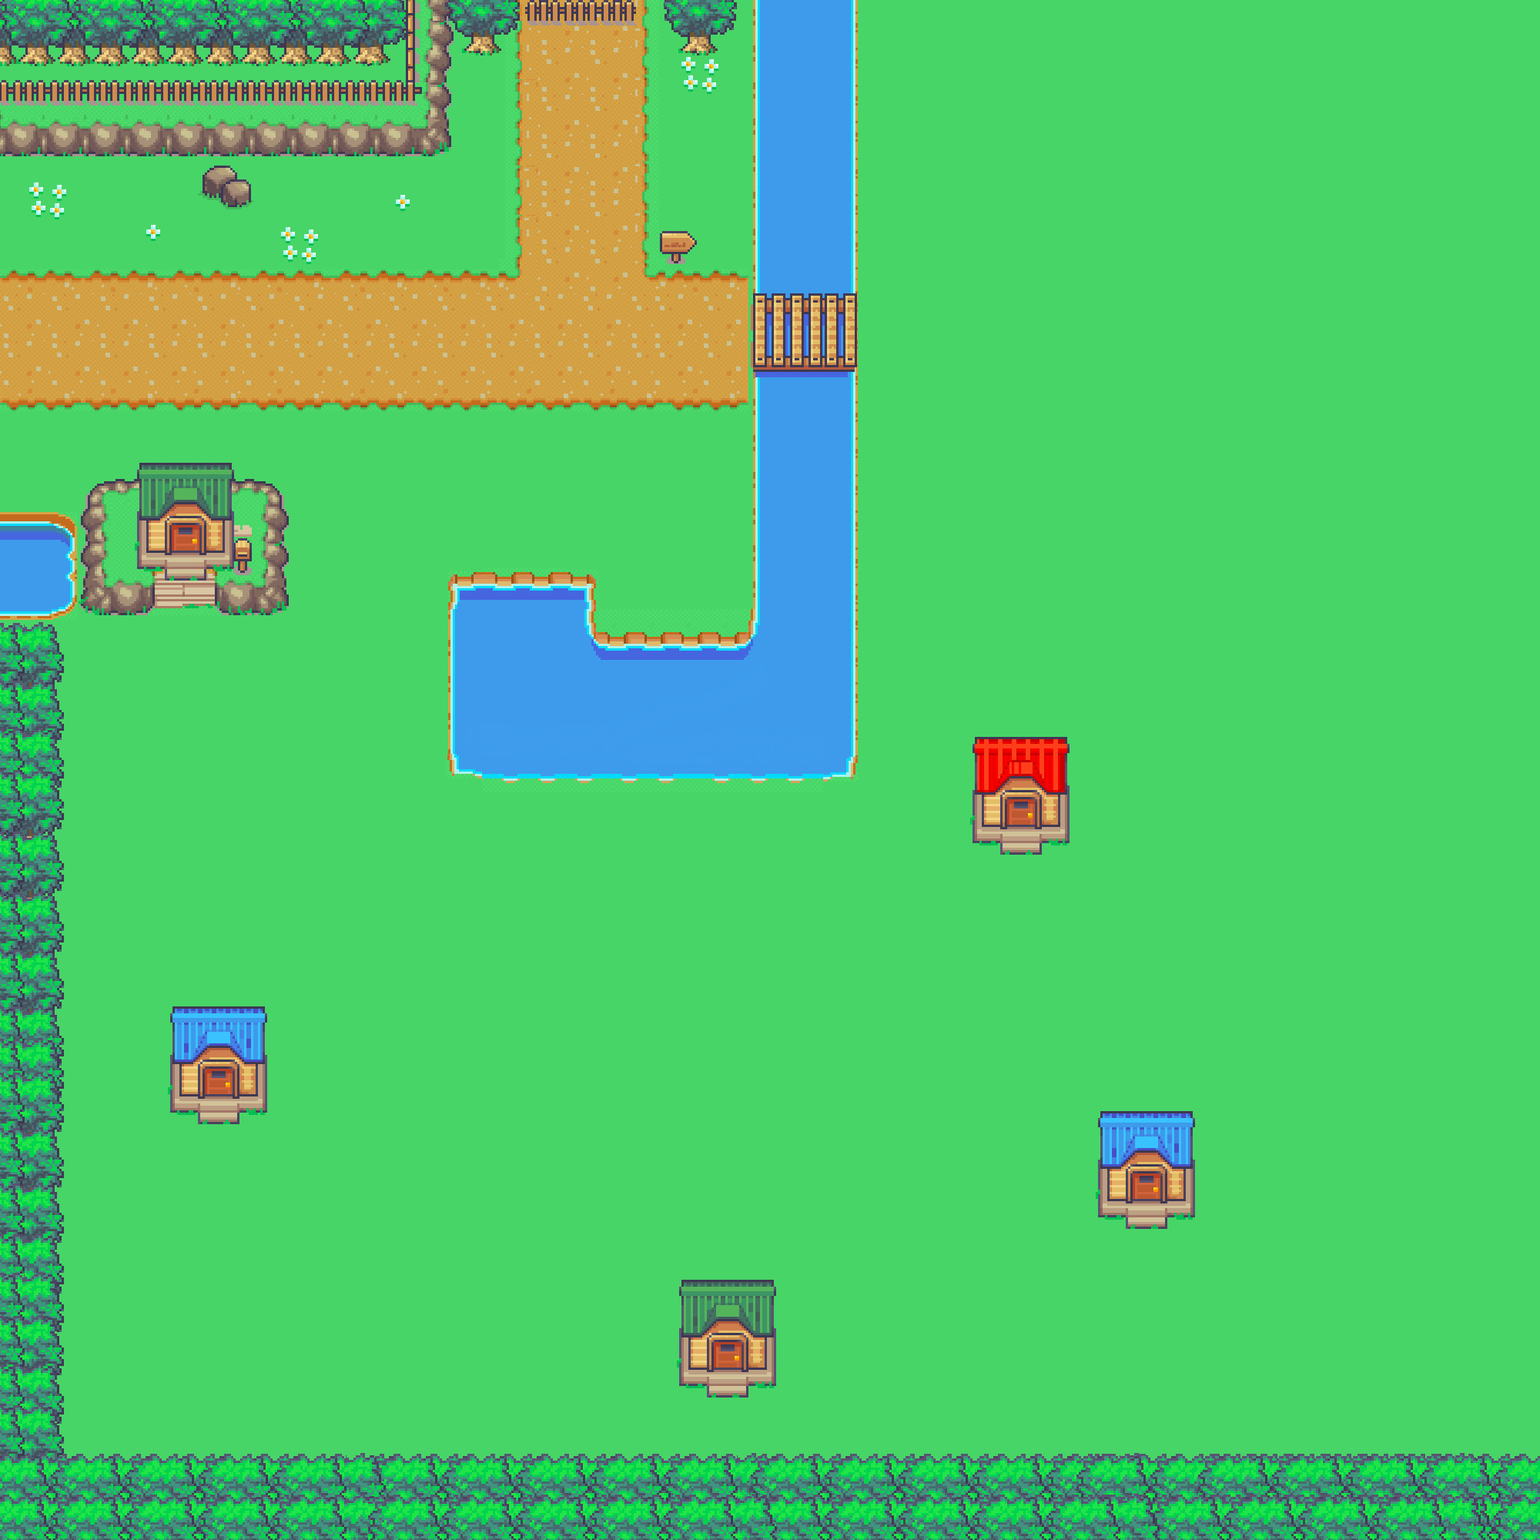
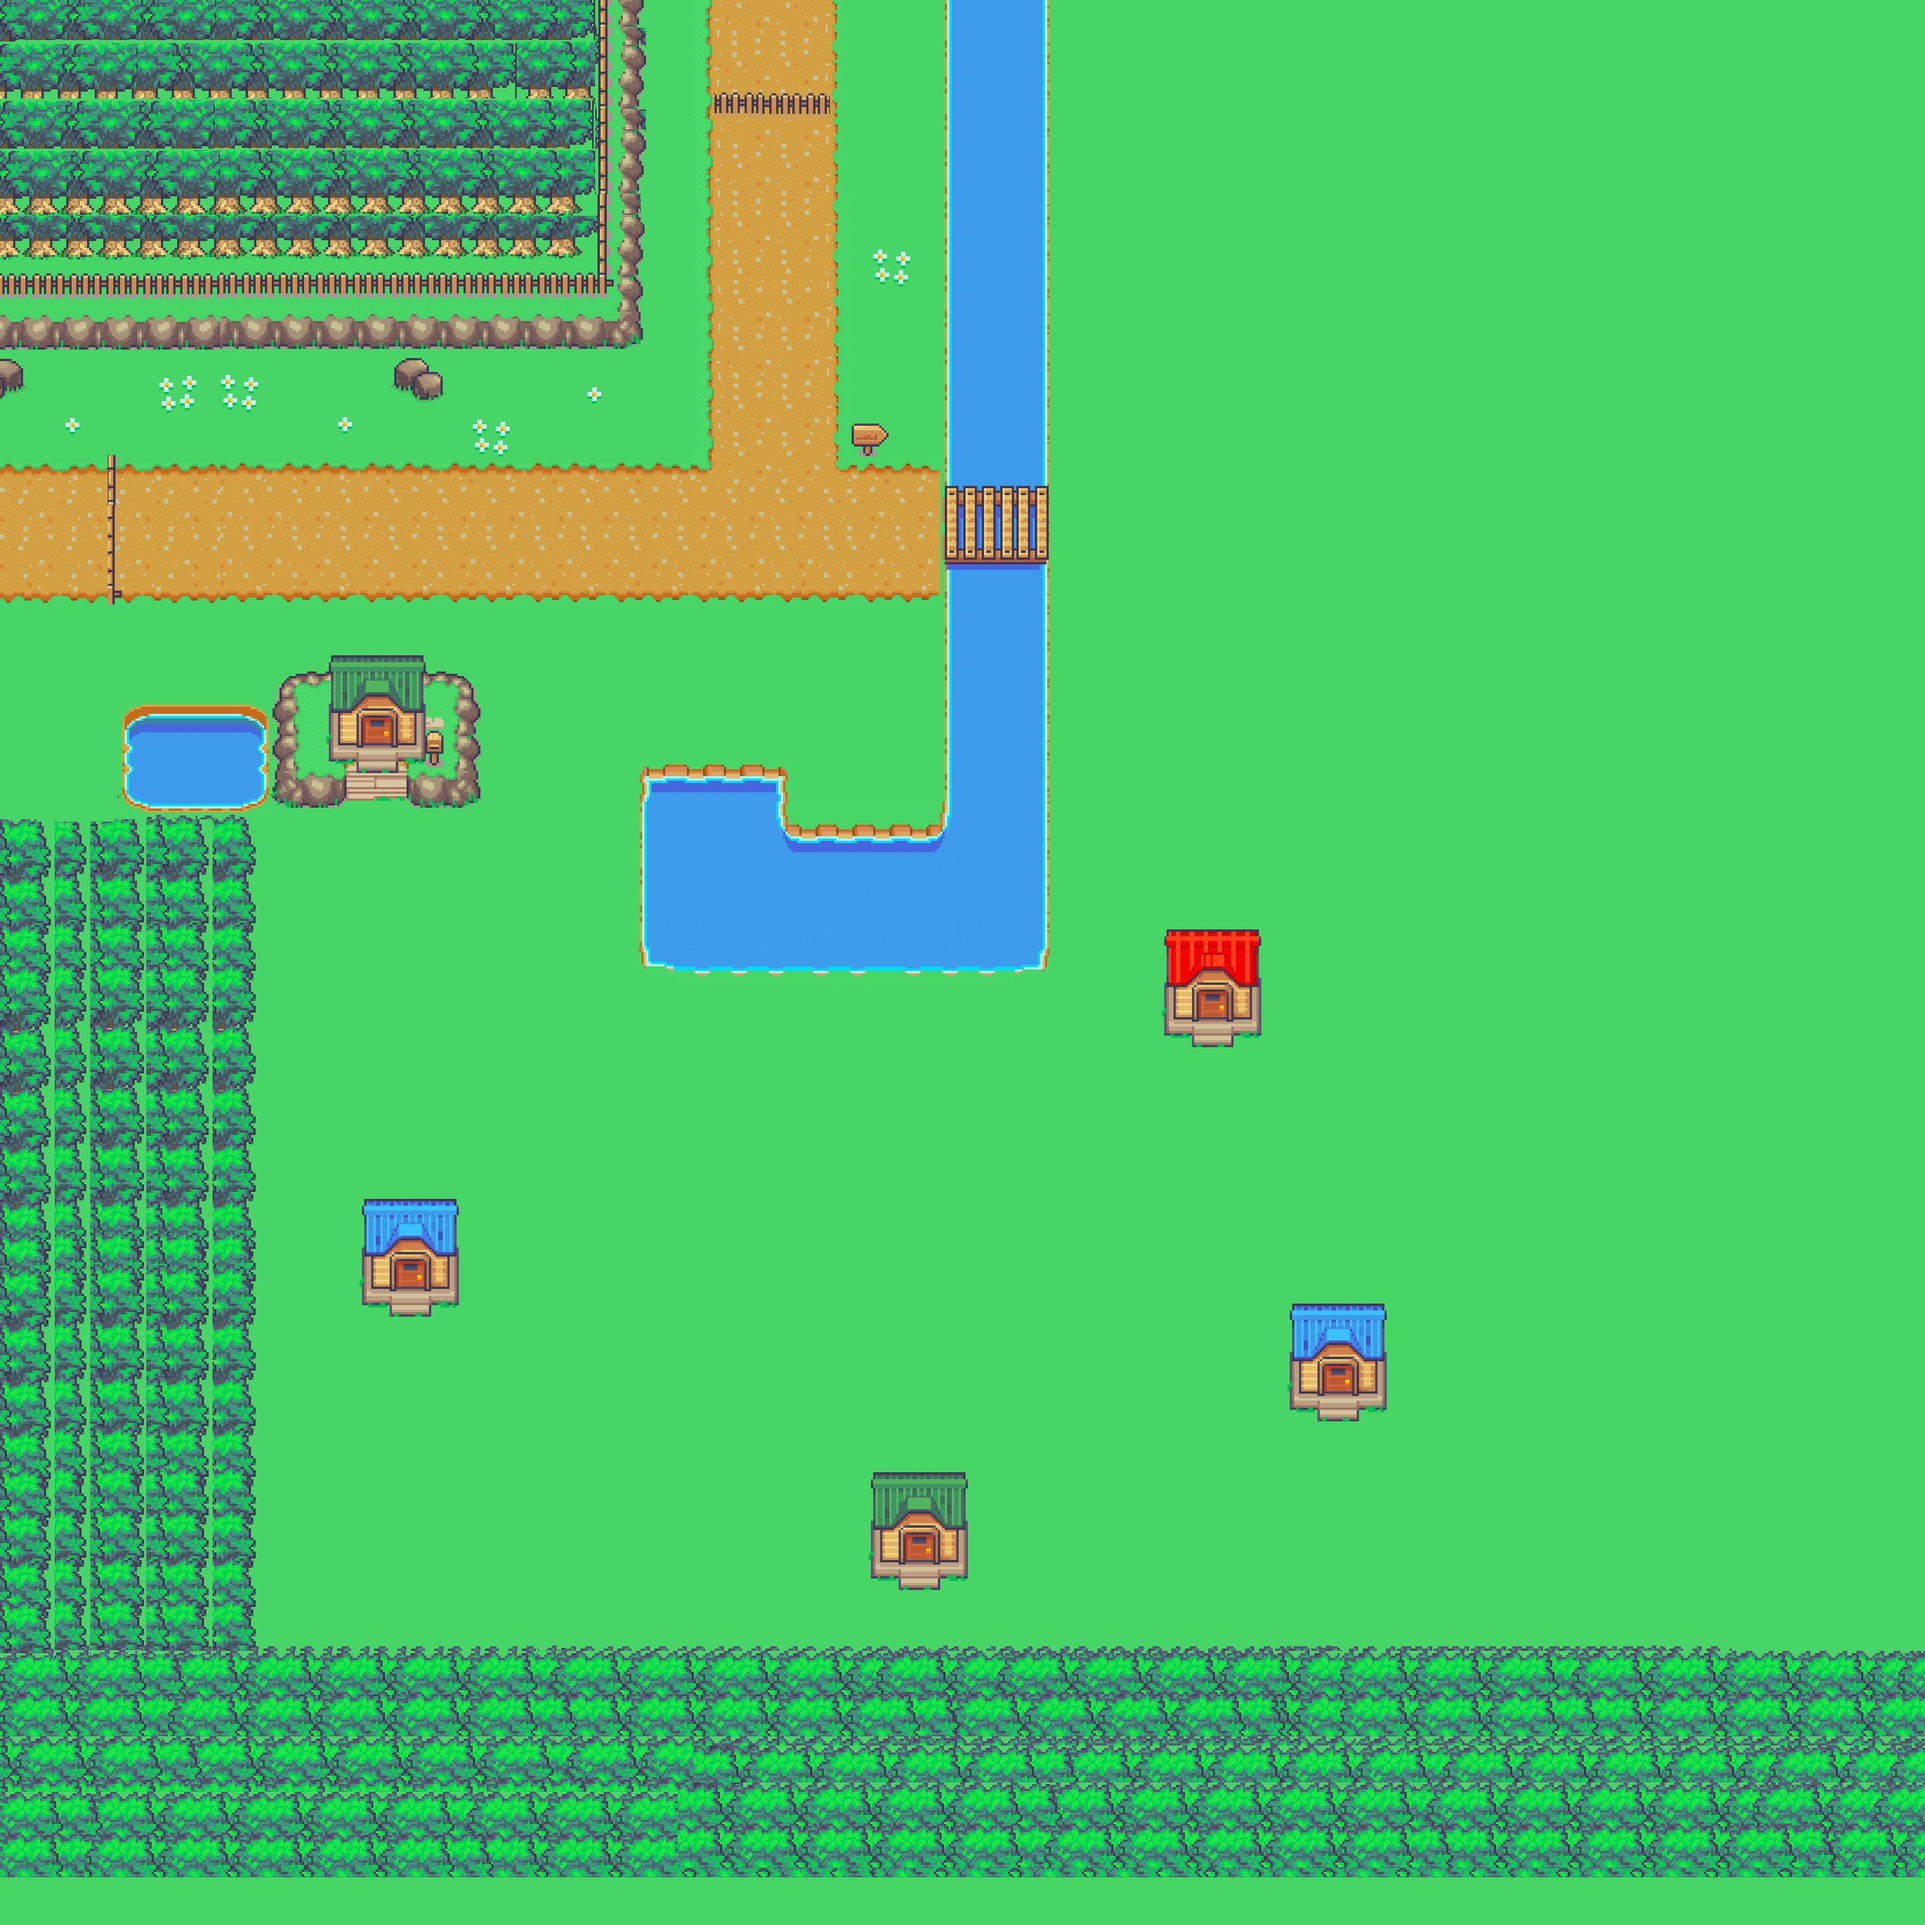
feat (*): set player not framerate dependant

diff --git a/src/events/move.c b/src/events/move.c
@@ -11,11 +11,14 @@
 
 void move_down(game_t *game)
 {
+    if (game->scenes[GAME].elements[0]->rect.top >= 2000 &&
+        game->scenes[GAME].elements[2]->pos.y > 660)
+        return;
     game->scenes[GAME].elements[2]->rect.top = 0;
     if (game->scenes[GAME].elements[2]->pos.y > 680) {
-        game->scenes[GAME].elements[0]->rect.top += 5;
+        game->scenes[GAME].elements[0]->rect.top += 8;
     } else {
-        game->scenes[GAME].elements[2]->pos.y += 5;
+        game->scenes[GAME].elements[2]->pos.y += 8;
     }
     if (game->scenes[GAME].elements[2]->rect.left < 32 * 3)
         game->scenes[GAME].elements[2]->rect.left += 32;
@@ -25,11 +28,14 @@ void move_down(game_t *game)
 
 void move_up(game_t *game)
 {
+    if (game->scenes[GAME].elements[0]->rect.top <= 0 &&
+        game->scenes[GAME].elements[2]->pos.y < 220)
+        return;
     game->scenes[GAME].elements[2]->rect.top = 144;
     if (game->scenes[GAME].elements[2]->pos.y < 200) {
-        game->scenes[GAME].elements[0]->rect.top -= 5;
+        game->scenes[GAME].elements[0]->rect.top -= 8;
     } else {
-        game->scenes[GAME].elements[2]->pos.y -= 5;
+        game->scenes[GAME].elements[2]->pos.y -= 8;
     }
     if (game->scenes[GAME].elements[2]->rect.left < 32 * 3)
         game->scenes[GAME].elements[2]->rect.left += 32;
@@ -39,11 +45,14 @@ void move_up(game_t *game)
 
 void move_left(game_t *game)
 {
+    if (game->scenes[GAME].elements[0]->rect.left <= 0 &&
+        game->scenes[GAME].elements[2]->pos.x < 220)
+        return;
     game->scenes[GAME].elements[2]->rect.top = 48;
     if (game->scenes[GAME].elements[2]->pos.x < 200) {
-        game->scenes[GAME].elements[0]->rect.left -= 5;
+        game->scenes[GAME].elements[0]->rect.left -= 8;
     } else {
-        game->scenes[GAME].elements[2]->pos.x -= 5;
+        game->scenes[GAME].elements[2]->pos.x -= 8;
     }
     if (game->scenes[GAME].elements[2]->rect.left < 32 * 3)
         game->scenes[GAME].elements[2]->rect.left += 32;
@@ -53,11 +62,14 @@ void move_left(game_t *game)
 
 void move_right(game_t *game)
 {
+    if (game->scenes[GAME].elements[0]->rect.left >= 2000 &&
+        game->scenes[GAME].elements[2]->pos.y > 1500)
+        return;
     game->scenes[GAME].elements[2]->rect.top = 96;
     if (game->scenes[GAME].elements[2]->pos.x > 1520) {
-        game->scenes[GAME].elements[0]->rect.left += 5;
+        game->scenes[GAME].elements[0]->rect.left += 8;
     } else {
-        game->scenes[GAME].elements[2]->pos.x += 5;
+        game->scenes[GAME].elements[2]->pos.x += 8;
     }
     if (game->scenes[GAME].elements[2]->rect.left < 32 * 3)
         game->scenes[GAME].elements[2]->rect.left += 32;

diff --git a/src/events/analyse_event.c b/src/events/analyse_event.c
@@ -57,17 +57,22 @@ int analyse_event(game_t *game, sfEvent *event)
 
 void analyse_game(game_t *game, UNUSED sfEvent *event)
 {
-    if (sfKeyboard_isKeyPressed(game->settings->key_down)) {
-        move_down(game);
-    } if (sfKeyboard_isKeyPressed(game->settings->key_up)) {
-        move_up(game);
-    } if (sfKeyboard_isKeyPressed(game->settings->key_left)) {
-        move_left(game);
-    } if (sfKeyboard_isKeyPressed(game->settings->key_right)) {
-        move_right(game);
+    sfTime time = sfClock_getElapsedTime(game->player->timer);
+
+    if (time.microseconds > 40000) {
+        if (sfKeyboard_isKeyPressed(game->settings->key_down)) {
+            move_down(game);
+        } if (sfKeyboard_isKeyPressed(game->settings->key_up)) {
+            move_up(game);
+        } if (sfKeyboard_isKeyPressed(game->settings->key_left)) {
+            move_left(game);
+        } if (sfKeyboard_isKeyPressed(game->settings->key_right)) {
+            move_right(game);
+        }
+        sfSprite_setTextureRect(game->scenes[GAME].elements[0]->sprite,
+                                game->scenes[GAME].elements[0]->rect);
+        sfClock_restart(game->player->timer);
     }
-    sfSprite_setTextureRect(game->scenes[GAME].elements[0]->sprite,
-                            game->scenes[GAME].elements[0]->rect);
 }
 
 void analyse_game_state(game_t *game, sfEvent *event, sfTime frame)

diff --git a/src/initialize/init_player.c b/src/initialize/init_player.c
@@ -14,6 +14,7 @@ player_t *init_player(char *class)
     player_t *player = malloc(sizeof(player_t));
 
     player->elem = NULL;
+    player->timer = sfClock_create();
     player->save = malloc(sizeof(char) * 2);
     player->quest = NULL;
     player->save[1] = '\0';

diff --git a/src/events/builtins.c b/src/events/builtins.c
@@ -18,6 +18,7 @@ void quit(game_t *game, ...)
 {
     va_list arg;
     va_start(arg, game);
+    sfRenderWindow_setFramerateLimit(game->window, 30);
     outro(game->window);
     sfRenderWindow_close(game->window);
     free_all(game);

diff --git a/src/main.c b/src/main.c
@@ -70,6 +70,7 @@ int main(int ac, UNUSED char **argv)
         return 84;
     sfEvent event;
     game_t *game = init_game();
+
     rpg(game, &event);
     sfRenderWindow_destroy(game->window);
     free(game);

diff --git a/src/initialize/init_pause.c b/src/initialize/init_pause.c
@@ -17,7 +17,6 @@ void resume(game_t *game, ...)
 void pause_menu(game_t *game, ...)
 {
     game->scenes->page = PAUSE;
-    my_printf("Go to pause\n");
 }
 
 element_t **pause_elements(void)

diff --git a/include/player.h b/include/player.h
@@ -52,6 +52,7 @@
     struct player_s {
         element_t *elem;
         inventory_t **inventory;
+        sfClock *timer;
         char *class;
         char *save;
         int hp;
